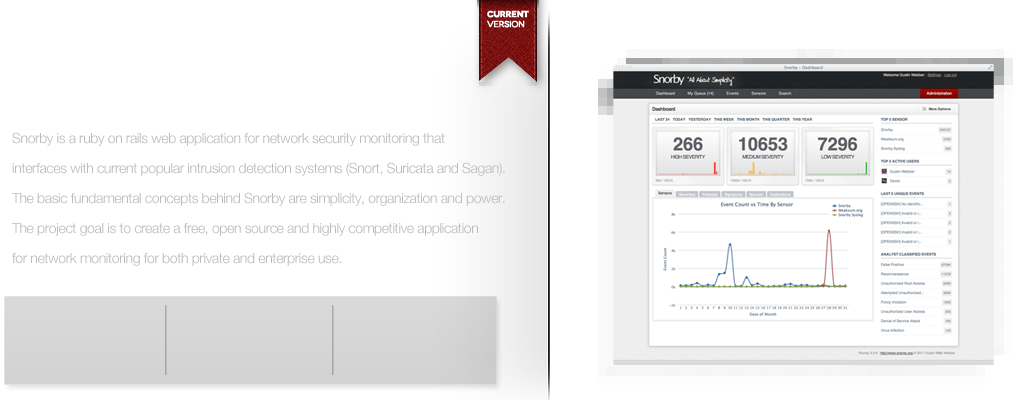
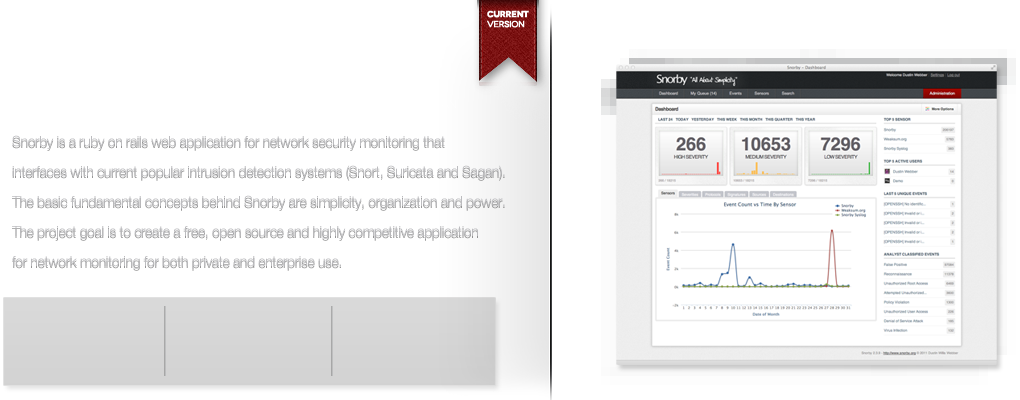
Update images and css.

diff --git a/public/assets/snorby.css b/public/assets/snorby.css
@@ -1,1 +1,1 @@
-.container_12{margin-left:auto;margin-right:auto;width:1020px}.grid_1,.grid_2,.grid_3,.grid_4,.grid_5,.grid_6,.grid_7,.grid_8,.grid_9,.grid_10,.grid_11,.grid_12{display:inline;float:left;position:relative;margin-left:10px;margin-right:10px}.alpha{margin-left:0}.omega{margin-right:0}.container_12 .grid_1{width:65px}.container_12 .grid_2{width:150px}.container_12 .grid_3{width:235px}.container_12 .grid_4{width:320px}.container_12 .grid_5{width:405px}.container_12 .grid_6{width:490px}.container_12 .grid_7{width:575px}.container_12 .grid_8{width:660px}.container_12 .grid_9{width:745px}.container_12 .grid_10{width:830px}.container_12 .grid_11{width:915px}.container_12 .grid_12{width:1000px}.container_12 .prefix_1{padding-left:85px}.container_12 .prefix_2{padding-left:170px}.container_12 .prefix_3{padding-left:255px}.container_12 .prefix_4{padding-left:340px}.container_12 .prefix_5{padding-left:425px}.container_12 .prefix_6{padding-left:510px}.container_12 .prefix_7{padding-left:595px}.container_12 .prefix_8{padding-left:680px}.container_12 .prefix_9{padding-left:765px}.container_12 .prefix_10{padding-left:850px}.container_12 .prefix_11{padding-left:935px}.container_12 .suffix_1{padding-right:85px}.container_12 .suffix_2{padding-right:170px}.container_12 .suffix_3{padding-right:255px}.container_12 .suffix_4{padding-right:340px}.container_12 .suffix_5{padding-right:425px}.container_12 .suffix_6{padding-right:510px}.container_12 .suffix_7{padding-right:595px}.container_12 .suffix_8{padding-right:680px}.container_12 .suffix_9{padding-right:765px}.container_12 .suffix_10{padding-right:850px}.container_12 .suffix_11{padding-right:935px}.container_12 .push_1{left:85px}.container_12 .push_2{left:170px}.container_12 .push_3{left:255px}.container_12 .push_4{left:340px}.container_12 .push_5{left:425px}.container_12 .push_6{left:510px}.container_12 .push_7{left:595px}.container_12 .push_8{left:680px}.container_12 .push_9{left:765px}.container_12 .push_10{left:850px}.container_12 .push_11{left:935px}.container_12 .pull_1{left:-85px}.container_12 .pull_2{left:-170px}.container_12 .pull_3{left:-255px}.container_12 .pull_4{left:-340px}.container_12 .pull_5{left:-425px}.container_12 .pull_6{left:-510px}.container_12 .pull_7{left:-595px}.container_12 .pull_8{left:-680px}.container_12 .pull_9{left:-765px}.container_12 .pull_10{left:-850px}.container_12 .pull_11{left:-935px}.clear{clear:both;display:block;overflow:hidden;visibility:hidden;width:0;height:0}.clearfix:after{clear:both;content:' ';display:block;font-size:0;line-height:0;visibility:hidden;width:0;height:0}.clearfix{display:inline-block}* html .clearfix{height:1%}.clearfix{display:block}html,body,div,span,applet,object,iframe,h1,h2,h3,h4,h5,h6,p,blockquote,pre,a,abbr,acronym,address,big,cite,code,del,dfn,em,font,img,ins,kbd,q,s,samp,small,strike,strong,sub,sup,tt,var,b,u,i,center,dl,dt,dd,ol,ul,li,fieldset,form,label,legend,table,caption,tbody,tfoot,thead,tr,th,td{margin:0;padding:0;border:0;outline:0;font-size:100%;vertical-align:baseline;background:transparent}body{line-height:1}ol,ul{list-style:none}blockquote,q{quotes:none}blockquote:before,blockquote:after,q:before,q:after{content:'';content:none}:focus{outline:0}ins{text-decoration:none}del{text-decoration:line-through}tables still need 'cellspacing="0"' in the markup table{border-collapse:collapse;border-spacing:0}html,body{font-family:'Muli',sans-serif;background:#f3f4f8;line-height:1.4em}#wrapper{min-height:300px;display:block;position:relative;overflow:hidden;border-bottom:1px solid #acacac;padding-bottom:30px}#wrapper #content{background:#f3f4f8;padding-bottom:15px}#main{border-top:6px solid rgba(0,0,0,0.1);background:#f3f4f8}#main .main-inside{border-top:1px solid #acacac}strong{letter-spacing:-1px}#header{background-color:rgba(0,0,0,0.17)}#header #header-inside{display:block;position:relative;overflow:hidden}#hero-heading{display:block;position:relative;overflow:visible;padding:10px;margin-top:-10px;margin-bottom:10px}#hero-heading h1{color:#3c4c53;text-decoration:none;margin-bottom:10px;text-align:left;font-style:normal;font-weight:normal;letter-spacing:-1px;padding:10px 10px 7px 0;font-size:2.0em}#hero-heading span{color:#454245;text-decoration:none;font-variant:normal;text-align:left;display:block;position:relative;overflow:hidden;padding-right:20px;margin-bottom:0;padding-bottom:10px;font-size:.9em;font-weight:bold}#header #header-inside div.content{height:400px;display:block;position:relative;overflow:hidden}#header #header-inside div.download{position:absolute;display:block;bottom:0;left:0;right:0;height:130px;background-color:rgba(11,11,11,0.7);border-top:1px solid #000}#header #menu{display:block;position:relative;height:63px;background:transparent url(../images/header/menu-bg.png?1315084321) repeat-x;overflow:hidden}#header #menu #menu-inside #logo{float:left;overflow:visible;display:block;position:relative;height:63px;width:400px;background:url(../images/header/logo.png?1315084323) no-repeat;text-indent:-9999em}#header #menu #menu-inside h1 span{font-size:12px;letter-spacing:0;color:#aaa;font-style:italic}#header #menu #menu-inside ul{float:right;display:block;position:relative;overflow:hidden;height:63px;line-height:63px}#header #menu #menu-inside li{float:right;color:#fff;font-weight:bold;text-decoration:none;font-variant:normal;margin-left:20px;font-size:1.0em;text-transform:lowercase}#header #menu #menu-inside li a{color:#fff;font-variant:normal;text-decoration:none;font-weight:normal;font-style:normal}#header #menu #menu-inside li a:hover{color:#aaa7b1}.page{margin-top:15px;margin-bottom:30px;display:block;position:relative;overflow:hidden}.page a{color:#aa1513}.page a:hover{color:#e22323}.page a:active{color:#000}div.block{display:block;position:relative;overflow:hidden}.note{background:url(../images/icons/note.png?1311472929) no-repeat left 4px;display:block;position:relative;overflow:visible;line-height:16px;padding-left:23px;font-size:12px;color:#415058;margin-top:15px;padding-top:5px;padding-bottom:5px;font-style:italic}.page #box{font-size:13px;color:#2e2e2e;text-align:left;line-height:1.5em;display:block;position:relative;margin-bottom:10px;margin-right:12px;margin-top:5px;padding:5px}.page #box.last{margin-right:0}.page #box .content{font-size:13px;color:#2e2e2e;text-align:left;line-height:1.5em;border-bottom:1px dotted #c1c1c1;padding-bottom:20px;display:block;position:relative;overflow:hidden}.page #box .content.lock{line-height:1.8em;height:170px}.page #box .content ul li{line-height:25px;background:url(../images/icons/list.png?1311472929) no-repeat left 4px;padding-left:20px}.page #box .content ul li a{font-size:12px}.page h1{color:#161616;display:block;position:relative;overflow:visible;margin-bottom:15px;text-shadow:#fff 0 1px 0;letter-spacing:-3px;border-bottom:1px dotted #bdbdbd;text-decoration:none;text-transform:capitalize;padding:5px 15px 5px 0;font:normal bold 3.0em 'Reenie Beanie',cursive}.page h1 span{font-variant:normal;color:#475662;text-transform:capitalize}.page h1 div.top{cursor:pointer;float:right;font-size:15px;letter-spacing:-1px;display:block;position:absolute;right:0;background:url(../images/icons/top.png?1315084319) no-repeat left center;bottom:10px;padding:10px 10px 10px 18px}.page h2{color:#282628;text-decoration:none;text-transform:uppercase;text-shadow:#fff 0 1px 0;text-align:left;font:normal normal bold 20px "Helvetica Neue",Arial,Helvetica,Geneva,sans-serif;letter-spacing:-1px;margin-bottom:7px;padding:5px 5px 5px 0;display:block;position:relative;overflow:visible}.page h2 div.look{cursor:pointer;position:absolute;display:block;background:url(../images/icons/look.png?1311472929) no-repeat;width:16px;height:16px;right:2px;bottom:7px}.page h3{font-size:16px;font-weight:normal;font-style:normal;text-decoration:none;font-variant:normal}.blank{color:#e5e5e5}.no-overflow{overflow:hidden}.right{float:right!important}.left{float:left}.round{-webkit-border-radius:5px;-moz-border-radius:5px;border-radius:5px}.round-with-tabs{-webkit-border-top-right-radius:4px;-moz-border-radius-topright:4px;-moz-border-radius-bottomright:4px;-moz-border-radius-bottomleft:4px;-webkit-border-bottom-right-radius:4px;-webkit-border-bottom-left-radius:4px}.round_top{-moz-border-radius-topright:4px;-moz-border-radius-topleft:4px;-webkit-border-top-right-radius:4px;-webkit-border-top-left-radius:4px}.round_bottom{-moz-border-radius-bottomright:4px;-moz-border-radius-bottomleft:4px;-webkit-border-bottom-right-radius:4px;-webkit-border-bottom-left-radius:4px}.shadow-bottom{-webkit-box-shadow:0 2px 10px rgba(0,0,0,0.2);-moz-box-shadow:0 1px 5px rgba(0,0,0,0.2);box-shadow:0 1px 5px rgba(0,0,0,0.2)}.shadow{-webkit-box-shadow:0 1px 5px rgba(0,0,0,0.2);-moz-box-shadow:0 1px 5px rgba(0,0,0,0.2);box-shadow:0 1px 5px rgba(0,0,0,0.2)}.shadow-in{-webkit-box-shadow:inset 0 1px 10px #b0b0b0;-moz-box-shadow:inset 0 1px 10px #b0b0b0;box-shadow:inset 0 1px 10px #b0b0b0}.shadow-light{-webkit-box-shadow:inset 0 1px 10px #fbfbfb;-moz-box-shadow:inset 0 1px 10px #fbfbfb;box-shadow:inset 0 1px 10px #fbfbfb}.no-wrap{white-space:nowrap}a.download{height:30px;padding:15px 20px;position:relative;color:#fff;text-shadow:#2f0100 1px 1px 0;white-space:nowrap;overflow:visible;background:#6b0400;filter:progid:DXImageTransform.Microsoft.gradient(GradientType=0,startColorstr='#9e0500',endColorstr='#6b0400');background:-webkit-gradient(linear,0% 0,0% 100%,from(#9e0500),to(#6b0400));background:-moz-linear-gradient(-90deg,#9e0500,#6b0400);-webkit-border-radius:5px;-moz-border-radius:5px;border-radius:5px;-webkit-box-shadow:0 1px 2px rgba(0,0,0,0.3);-moz-box-shadow:0 1px 2px rgba(0,0,0,0.3);box-shadow:0 1px 2px rgba(0,0,0,0.3);cursor:pointer;-webkit-font-smoothing:subpixel-antialiased!important;border:1px solid #af160b;margin-right:5px;text-decoration:none;left:50px;letter-spacing:-2px;top:42px;font:normal bold 2.5em helvetica,arial,freesans,clean,sans-serif}a.download:hover{background:#840500;filter:progid:DXImageTransform.Microsoft.gradient(GradientType=0,startColorstr='#b80600',endColorstr='#840500');background:-webkit-gradient(linear,0% 0,0% 100%,from(#b80600),to(#840500));background:-moz-linear-gradient(-90deg,#b80600,#840500)}a.download:active{color:#fef8fd;text-shadow:rgba(0,0,0,0.86) -1px -1px 0;background:#9e0500;filter:progid:DXImageTransform.Microsoft.gradient(GradientType=0,startColorstr='#6b0400',endColorstr='#9e0500');background:-webkit-gradient(linear,0% 0,0% 100%,from(#6b0400),to(#9e0500));background:-moz-linear-gradient(-90deg,#6b0400,#9e0500)}button.default,a.button.default{height:30px;position:relative;top:1px;font-family:helvetica,arial,freesans,clean,sans-serif;font-weight:bold;font-size:12px;color:#333;text-shadow:1px 1px 0 #fff;white-space:nowrap;overflow:visible;background:#ddd;filter:progid:DXImageTransform.Microsoft.gradient(GradientType=0,startColorstr='#ffffff',endColorstr='#e1e1e1');background:-webkit-gradient(linear,0% 0,0% 100%,from(#fff),to(#e1e1e1));background:-moz-linear-gradient(-90deg,#fff,#e1e1e1);border-bottom:1px solid #ebebeb;-webkit-border-radius:3px;-moz-border-radius:3px;border-radius:3px;-webkit-box-shadow:0 1px 2px rgba(0,0,0,0.3);-moz-box-shadow:0 1px 2px rgba(0,0,0,0.3);box-shadow:0 1px 2px rgba(0,0,0,0.3);cursor:pointer;-webkit-font-smoothing:subpixel-antialiased!important;border:1px solid #cbcbcb;margin-right:5px;padding:0 30px 0 7px}pre.code{background-color:#000;padding:10px;font-weight:normal;text-decoration:none;font-variant:normal;color:#fff;margin-top:10px;font-size:12px;font-style:normal;border:5px solid #bdbdbd}.info-box{position:relative}.popup{position:absolute;display:none;z-index:50;color:#fff;font-weight:normal;font-style:normal;text-decoration:none;font-variant:normal;font-size:11px;padding:10px;line-height:20px;width:265px;background:transparent url(../images/popup-bg.png?1315084339) no-repeat;height:182px}.popup h4{text-decoration:none;text-shadow:#000 0 1px 0;margin-bottom:5px;font-size:16px;font-weight:bold;letter-spacing:-1px}.popup a{color:#ae1e1e;font-weight:normal;font-style:normal;text-decoration:none;font-variant:normal}#twitter{font-size:.8em;display:block;position:relative;overflow:hidden}#twitter ul#twitter_update_list{display:block;position:relative;overflow:hidden}#twitter li{border-bottom:1px dotted #ddd;padding-bottom:10px;margin-bottom:10px;line-height:20px;font-style:normal;color:#545454;font-weight:normal;text-decoration:none;font-variant:normal;padding-left:5px}#info-box{height:400px;background:url(../images/info-box-bg.png?1315084324) repeat-x;display:block;position:relative;overflow:visible;border-bottom:1px solid #000;padding-top:0;padding-bottom:19px}#info-box .inside{width:1020px;margin:auto;height:400px;display:block;position:relative;visibility:visible}#info-box .inside #images{width:1020px;height:400px;background:url(../images/welcome/welcome-bg.png?1315084370) no-repeat;margin:auto}#info-box .inside #current-version{cursor:pointer;position:absolute;display:block;overflow:hidden;height:80px;width:80px;left:468px;top:0;font-weight:bold;text-decoration:none;font-variant:normal;color:#fffeff;text-shadow:#000 0 1px 0;text-align:center;line-height:87px}#info-box .inside #downloads{width:500px;height:88px;position:absolute;overflow:visible;display:block;line-height:96px;top:293px;left:7px}#info-box .inside #downloads button{cursor:pointer;text-indent:-9999em;background:url(../images/buttons.png?1315084445) no-repeat;border-style:none;width:140px;height:45px;display:inline-block;position:relative;overflow:visible}#info-box .inside #downloads button#snorby{background-position:-47px -38px;margin-left:9px;margin-right:20px}#info-box .inside #downloads button#snorby:hover{background-position:-36px -141px;height:65px;left:-11px;width:160px;top:-2px;margin-right:0}#info-box .inside #downloads button#insta-snorby{background-position:-212px -38px;margin-right:20px;margin-left:-1px}#info-box .inside #downloads button#insta-snorby:hover{background-position:-201px -141px;height:65px;left:-11px;width:160px;top:-2px;margin-right:0}#info-box .inside #downloads button#submit-bugs{background-position:-377px -38px}#info-box .inside #downloads button#submit-bugs:hover{background-position:-366px -141px;height:65px;left:-11px;width:160px;top:-2px;margin-right:0}div.info-popup{position:relative;display:inline-block;overflow:visible}div#video{cursor:pointer;position:absolute;display:block;overflow:visible;width:450px;height:350px;margin:auto;right:-9px;z-index:99999;background:url(../images/play-button.png?1315084452) no-repeat;top:49px}#close-video{cursor:pointer;display:block;position:absolute;overflow:hidden;color:#e8e8e8;letter-spacing:-2px;top:17px;font:normal bold 1.5em 'Reenie Beanie',cursive;text-shadow:#000 0 1px 0;right:10px}#footer{font-size:12px;color:#bababa;text-align:left;font-style:normal;font-weight:normal;text-decoration:none;font-variant:normal;border-bottom:1px solid #000;border-top:5px solid #c7c7c7;background:#38393d url(../images/info-box-bg.png?1315084324) repeat-x 0 bottom}#footer .inside{width:1020px;margin:auto;padding-bottom:40px;position:relative;display:block;overflow:hidden;padding-top:7px}#footer .inside ul.column{float:left;display:block;position:relative;overflow:hidden;width:200px;padding:0;margin:20px 55px 0 0}#footer .inside ul.column li.title{color:#fff;text-decoration:none;font:1.3em 'Muli',sans-serif;padding:0;margin:0 0 10px;letter-spacing:-1px;text-shadow:#000 0 1px 0;border-style:none;border-bottom:2px solid #7c7c7c}#footer .inside ul.column li{display:block;position:relative;overflow:hidden;padding:5px 0;border-bottom:1px dotted #444;font-size:.9em}#footer .inside ul.column li a{font-weight:normal;font-style:normal;text-decoration:none;font-variant:normal;color:#c7c7c7;text-transform:lowercase;display:block;position:relative;overflow:hidden}#footer .inside ul.column li a:hover{color:#d51e18}#copyright{font-size:11px;color:#989898;width:1020px;position:relative;display:block;overflow:hidden;margin:auto auto 30px;text-align:left}#copyright strong{font-size:11px;font-weight:bold;text-decoration:none;font-variant:normal;letter-spacing:-1px}#footer a,#copyright a{color:#7f7f7f}iframe{border:1px solid #393939;-webkit-box-shadow:0 0 10px rgba(0,0,0,0.8);-moz-box-shadow:0 0 10px rgba(0,0,0,0.8);box-shadow:0 0 10px rgba(0,0,0,0.8)}
+.container_12{margin-left:auto;margin-right:auto;width:1020px}.grid_1,.grid_2,.grid_3,.grid_4,.grid_5,.grid_6,.grid_7,.grid_8,.grid_9,.grid_10,.grid_11,.grid_12{display:inline;float:left;position:relative;margin-left:10px;margin-right:10px}.alpha{margin-left:0}.omega{margin-right:0}.container_12 .grid_1{width:65px}.container_12 .grid_2{width:150px}.container_12 .grid_3{width:235px}.container_12 .grid_4{width:320px}.container_12 .grid_5{width:405px}.container_12 .grid_6{width:490px}.container_12 .grid_7{width:575px}.container_12 .grid_8{width:660px}.container_12 .grid_9{width:745px}.container_12 .grid_10{width:830px}.container_12 .grid_11{width:915px}.container_12 .grid_12{width:1000px}.container_12 .prefix_1{padding-left:85px}.container_12 .prefix_2{padding-left:170px}.container_12 .prefix_3{padding-left:255px}.container_12 .prefix_4{padding-left:340px}.container_12 .prefix_5{padding-left:425px}.container_12 .prefix_6{padding-left:510px}.container_12 .prefix_7{padding-left:595px}.container_12 .prefix_8{padding-left:680px}.container_12 .prefix_9{padding-left:765px}.container_12 .prefix_10{padding-left:850px}.container_12 .prefix_11{padding-left:935px}.container_12 .suffix_1{padding-right:85px}.container_12 .suffix_2{padding-right:170px}.container_12 .suffix_3{padding-right:255px}.container_12 .suffix_4{padding-right:340px}.container_12 .suffix_5{padding-right:425px}.container_12 .suffix_6{padding-right:510px}.container_12 .suffix_7{padding-right:595px}.container_12 .suffix_8{padding-right:680px}.container_12 .suffix_9{padding-right:765px}.container_12 .suffix_10{padding-right:850px}.container_12 .suffix_11{padding-right:935px}.container_12 .push_1{left:85px}.container_12 .push_2{left:170px}.container_12 .push_3{left:255px}.container_12 .push_4{left:340px}.container_12 .push_5{left:425px}.container_12 .push_6{left:510px}.container_12 .push_7{left:595px}.container_12 .push_8{left:680px}.container_12 .push_9{left:765px}.container_12 .push_10{left:850px}.container_12 .push_11{left:935px}.container_12 .pull_1{left:-85px}.container_12 .pull_2{left:-170px}.container_12 .pull_3{left:-255px}.container_12 .pull_4{left:-340px}.container_12 .pull_5{left:-425px}.container_12 .pull_6{left:-510px}.container_12 .pull_7{left:-595px}.container_12 .pull_8{left:-680px}.container_12 .pull_9{left:-765px}.container_12 .pull_10{left:-850px}.container_12 .pull_11{left:-935px}.clear{clear:both;display:block;overflow:hidden;visibility:hidden;width:0;height:0}.clearfix:after{clear:both;content:' ';display:block;font-size:0;line-height:0;visibility:hidden;width:0;height:0}.clearfix{display:inline-block}* html .clearfix{height:1%}.clearfix{display:block}html,body,div,span,applet,object,iframe,h1,h2,h3,h4,h5,h6,p,blockquote,pre,a,abbr,acronym,address,big,cite,code,del,dfn,em,font,img,ins,kbd,q,s,samp,small,strike,strong,sub,sup,tt,var,b,u,i,center,dl,dt,dd,ol,ul,li,fieldset,form,label,legend,table,caption,tbody,tfoot,thead,tr,th,td{margin:0;padding:0;border:0;outline:0;font-size:100%;vertical-align:baseline;background:transparent}body{line-height:1}ol,ul{list-style:none}blockquote,q{quotes:none}blockquote:before,blockquote:after,q:before,q:after{content:'';content:none}:focus{outline:0}ins{text-decoration:none}del{text-decoration:line-through}tables still need 'cellspacing="0"' in the markup table{border-collapse:collapse;border-spacing:0}html,body{font-family:'Muli',sans-serif;background:#f3f4f8;line-height:1.4em}#wrapper{min-height:300px;display:block;position:relative;overflow:hidden;border-bottom:1px solid #acacac;padding-bottom:30px}#wrapper #content{background:#f3f4f8;padding-bottom:15px}#main{border-top:6px solid rgba(0,0,0,0.1);background:#f3f4f8}#main .main-inside{border-top:1px solid #acacac}strong{letter-spacing:-1px}#header{background-color:rgba(0,0,0,0.17)}#header #header-inside{display:block;position:relative;overflow:hidden}#hero-heading{display:block;position:relative;overflow:visible;padding:10px;margin-top:-10px;margin-bottom:10px}#hero-heading h1{color:#3c4c53;text-decoration:none;margin-bottom:10px;text-align:left;font-style:normal;font-weight:normal;letter-spacing:-1px;padding:10px 10px 7px 0;font-size:2.0em}#hero-heading span{color:#454245;text-decoration:none;font-variant:normal;text-align:left;display:block;position:relative;overflow:hidden;padding-right:20px;margin-bottom:0;padding-bottom:10px;font-size:.9em;font-weight:bold}#header #header-inside div.content{height:400px;display:block;position:relative;overflow:hidden}#header #header-inside div.download{position:absolute;display:block;bottom:0;left:0;right:0;height:130px;background-color:rgba(11,11,11,0.7);border-top:1px solid #000}#header #menu{display:block;position:relative;height:63px;background:transparent url(../images/header/menu-bg.png?1315084321) repeat-x;overflow:hidden}#header #menu #menu-inside #logo{float:left;overflow:visible;display:block;position:relative;height:63px;width:400px;background:url(../images/header/logo.png?1315084323) no-repeat;text-indent:-9999em}#header #menu #menu-inside h1 span{font-size:12px;letter-spacing:0;color:#aaa;font-style:italic}#header #menu #menu-inside ul{float:right;display:block;position:relative;overflow:hidden;height:63px;line-height:63px}#header #menu #menu-inside li{float:right;color:#fff;font-weight:bold;text-decoration:none;font-variant:normal;margin-left:20px;font-size:1.0em;text-transform:lowercase}#header #menu #menu-inside li a{color:#fff;font-variant:normal;text-decoration:none;font-weight:normal;font-style:normal}#header #menu #menu-inside li a:hover{color:#aaa7b1}.page{margin-top:15px;margin-bottom:30px;display:block;position:relative;overflow:hidden}.page a{color:#aa1513}.page a:hover{color:#e22323}.page a:active{color:#000}div.block{display:block;position:relative;overflow:hidden}.note{background:url(../images/icons/note.png?1311472929) no-repeat left 4px;display:block;position:relative;overflow:visible;line-height:16px;padding-left:23px;font-size:12px;color:#415058;margin-top:15px;padding-top:5px;padding-bottom:5px;font-style:italic}.page #box{font-size:13px;color:#2e2e2e;text-align:left;line-height:1.5em;display:block;position:relative;margin-bottom:10px;margin-right:12px;margin-top:5px;padding:5px}.page #box.last{margin-right:0}.page #box .content{font-size:13px;color:#2e2e2e;text-align:left;line-height:1.5em;border-bottom:1px dotted #c1c1c1;padding-bottom:20px;display:block;position:relative;overflow:hidden}.page #box .content.lock{line-height:1.8em;height:170px}.page #box .content ul li{line-height:25px;background:url(../images/icons/list.png?1311472929) no-repeat left 4px;padding-left:20px}.page #box .content ul li a{font-size:12px}.page h1{color:#161616;display:block;position:relative;overflow:visible;margin-bottom:15px;text-shadow:#fff 0 1px 0;letter-spacing:-3px;border-bottom:1px dotted #bdbdbd;text-decoration:none;text-transform:capitalize;padding:5px 15px 5px 0;font:normal bold 3.0em 'Reenie Beanie',cursive}.page h1 span{font-variant:normal;color:#475662;text-transform:capitalize}.page h1 div.top{cursor:pointer;float:right;font-size:15px;letter-spacing:-1px;display:block;position:absolute;right:0;background:url(../images/icons/top.png?1315084319) no-repeat left center;bottom:10px;padding:10px 10px 10px 18px}.page h2{color:#282628;text-decoration:none;text-transform:uppercase;text-shadow:#fff 0 1px 0;text-align:left;font:normal normal bold 20px "Helvetica Neue",Arial,Helvetica,Geneva,sans-serif;letter-spacing:-1px;margin-bottom:7px;padding:5px 5px 5px 0;display:block;position:relative;overflow:visible}.page h2 div.look{cursor:pointer;position:absolute;display:block;background:url(../images/icons/look.png?1311472929) no-repeat;width:16px;height:16px;right:2px;bottom:7px}.page h3{font-size:16px;font-weight:normal;font-style:normal;text-decoration:none;font-variant:normal}.blank{color:#e5e5e5}.no-overflow{overflow:hidden}.right{float:right!important}.left{float:left}.round{-webkit-border-radius:5px;-moz-border-radius:5px;border-radius:5px}.round-with-tabs{-webkit-border-top-right-radius:4px;-moz-border-radius-topright:4px;-moz-border-radius-bottomright:4px;-moz-border-radius-bottomleft:4px;-webkit-border-bottom-right-radius:4px;-webkit-border-bottom-left-radius:4px}.round_top{-moz-border-radius-topright:4px;-moz-border-radius-topleft:4px;-webkit-border-top-right-radius:4px;-webkit-border-top-left-radius:4px}.round_bottom{-moz-border-radius-bottomright:4px;-moz-border-radius-bottomleft:4px;-webkit-border-bottom-right-radius:4px;-webkit-border-bottom-left-radius:4px}.shadow-bottom{-webkit-box-shadow:0 2px 10px rgba(0,0,0,0.2);-moz-box-shadow:0 1px 5px rgba(0,0,0,0.2);box-shadow:0 1px 5px rgba(0,0,0,0.2)}.shadow{-webkit-box-shadow:0 1px 5px rgba(0,0,0,0.2);-moz-box-shadow:0 1px 5px rgba(0,0,0,0.2);box-shadow:0 1px 5px rgba(0,0,0,0.2)}.shadow-in{-webkit-box-shadow:inset 0 1px 10px #b0b0b0;-moz-box-shadow:inset 0 1px 10px #b0b0b0;box-shadow:inset 0 1px 10px #b0b0b0}.shadow-light{-webkit-box-shadow:inset 0 1px 10px #fbfbfb;-moz-box-shadow:inset 0 1px 10px #fbfbfb;box-shadow:inset 0 1px 10px #fbfbfb}.no-wrap{white-space:nowrap}a.download{height:30px;padding:15px 20px;position:relative;color:#fff;text-shadow:#2f0100 1px 1px 0;white-space:nowrap;overflow:visible;background:#6b0400;filter:progid:DXImageTransform.Microsoft.gradient(GradientType=0,startColorstr='#9e0500',endColorstr='#6b0400');background:-webkit-gradient(linear,0% 0,0% 100%,from(#9e0500),to(#6b0400));background:-moz-linear-gradient(-90deg,#9e0500,#6b0400);-webkit-border-radius:5px;-moz-border-radius:5px;border-radius:5px;-webkit-box-shadow:0 1px 2px rgba(0,0,0,0.3);-moz-box-shadow:0 1px 2px rgba(0,0,0,0.3);box-shadow:0 1px 2px rgba(0,0,0,0.3);cursor:pointer;-webkit-font-smoothing:subpixel-antialiased!important;border:1px solid #af160b;margin-right:5px;text-decoration:none;left:50px;letter-spacing:-2px;top:42px;font:normal bold 2.5em helvetica,arial,freesans,clean,sans-serif}a.download:hover{background:#840500;filter:progid:DXImageTransform.Microsoft.gradient(GradientType=0,startColorstr='#b80600',endColorstr='#840500');background:-webkit-gradient(linear,0% 0,0% 100%,from(#b80600),to(#840500));background:-moz-linear-gradient(-90deg,#b80600,#840500)}a.download:active{color:#fef8fd;text-shadow:rgba(0,0,0,0.86) -1px -1px 0;background:#9e0500;filter:progid:DXImageTransform.Microsoft.gradient(GradientType=0,startColorstr='#6b0400',endColorstr='#9e0500');background:-webkit-gradient(linear,0% 0,0% 100%,from(#6b0400),to(#9e0500));background:-moz-linear-gradient(-90deg,#6b0400,#9e0500)}button.default,a.button.default{height:30px;position:relative;top:1px;font-family:helvetica,arial,freesans,clean,sans-serif;font-weight:bold;font-size:12px;color:#333;text-shadow:1px 1px 0 #fff;white-space:nowrap;overflow:visible;background:#ddd;filter:progid:DXImageTransform.Microsoft.gradient(GradientType=0,startColorstr='#ffffff',endColorstr='#e1e1e1');background:-webkit-gradient(linear,0% 0,0% 100%,from(#fff),to(#e1e1e1));background:-moz-linear-gradient(-90deg,#fff,#e1e1e1);border-bottom:1px solid #ebebeb;-webkit-border-radius:3px;-moz-border-radius:3px;border-radius:3px;-webkit-box-shadow:0 1px 2px rgba(0,0,0,0.3);-moz-box-shadow:0 1px 2px rgba(0,0,0,0.3);box-shadow:0 1px 2px rgba(0,0,0,0.3);cursor:pointer;-webkit-font-smoothing:subpixel-antialiased!important;border:1px solid #cbcbcb;margin-right:5px;padding:0 30px 0 7px}pre.code{background-color:#000;padding:10px;font-weight:normal;text-decoration:none;font-variant:normal;color:#fff;margin-top:10px;font-size:12px;font-style:normal;border:5px solid #bdbdbd}.info-box{position:relative}.popup{position:absolute;display:none;z-index:50;color:#fff;font-weight:normal;font-style:normal;text-decoration:none;font-variant:normal;font-size:11px;padding:10px;line-height:20px;width:265px;background:transparent url(../images/popup-bg.png?1315084339) no-repeat;height:182px}.popup h4{text-decoration:none;text-shadow:#000 0 1px 0;margin-bottom:5px;font-size:16px;font-weight:bold;letter-spacing:-1px}.popup a{color:#ae1e1e;font-weight:normal;font-style:normal;text-decoration:none;font-variant:normal}#twitter{font-size:.8em;display:block;position:relative;overflow:hidden}#twitter ul#twitter_update_list{display:block;position:relative;overflow:hidden}#twitter li{border-bottom:1px dotted #ddd;padding-bottom:10px;margin-bottom:10px;line-height:20px;font-style:normal;color:#545454;font-weight:normal;text-decoration:none;font-variant:normal;padding-left:5px}#info-box{height:400px;background:url(../images/info-box-bg.png?1315084324) repeat-x;display:block;position:relative;overflow:visible;border-bottom:1px solid #000;padding-top:0;padding-bottom:19px}#info-box .inside{width:1020px;margin:auto;height:400px;display:block;position:relative;visibility:visible}#info-box .inside #images{width:1020px;height:400px;background:url(../images/welcome/welcome-bg.png?1315090566) no-repeat;margin:auto}#info-box .inside #current-version{cursor:pointer;position:absolute;display:block;overflow:hidden;height:80px;width:80px;left:468px;top:0;font-weight:bold;text-decoration:none;font-variant:normal;color:#fffeff;text-shadow:#000 0 1px 0;text-align:center;line-height:87px}#info-box .inside #downloads{width:500px;height:88px;position:absolute;overflow:visible;display:block;line-height:96px;top:295px;left:7px}#info-box .inside #downloads button{cursor:pointer;text-indent:-9999em;background:url(../images/buttons.png?1315084445) no-repeat;border-style:none;width:140px;height:45px;display:inline-block;position:relative;overflow:visible}#info-box .inside #downloads button#snorby{background-position:-47px -38px;margin-left:9px;margin-right:20px}#info-box .inside #downloads button#snorby:hover{background-position:-36px -141px;height:65px;left:-11px;width:160px;top:-2px;margin-right:0}#info-box .inside #downloads button#insta-snorby{background-position:-212px -38px;margin-right:20px;margin-left:-1px}#info-box .inside #downloads button#insta-snorby:hover{background-position:-201px -141px;height:65px;left:-11px;width:160px;top:-2px;margin-right:0}#info-box .inside #downloads button#submit-bugs{background-position:-377px -38px}#info-box .inside #downloads button#submit-bugs:hover{background-position:-366px -141px;height:65px;left:-11px;width:160px;top:-2px;margin-right:0}div.info-popup{position:relative;display:inline-block;overflow:visible}div#video{cursor:pointer;position:absolute;display:block;overflow:visible;width:450px;height:350px;margin:auto;right:-15px;z-index:99999;background:url(../images/play-button.png?1315090157) no-repeat;top:49px}#close-video{cursor:pointer;display:block;position:absolute;overflow:hidden;color:#e8e8e8;letter-spacing:-2px;top:18px;font:normal bold 1.5em 'Reenie Beanie',cursive;text-shadow:#000 0 1px 0;right:0}#footer{font-size:12px;color:#bababa;text-align:left;font-style:normal;font-weight:normal;text-decoration:none;font-variant:normal;border-bottom:1px solid #000;border-top:5px solid #c7c7c7;background:#38393d url(../images/info-box-bg.png?1315084324) repeat-x 0 bottom}#footer .inside{width:1020px;margin:auto;padding-bottom:40px;position:relative;display:block;overflow:hidden;padding-top:7px}#footer .inside ul.column{float:left;display:block;position:relative;overflow:hidden;width:200px;padding:0;margin:20px 55px 0 0}#footer .inside ul.column li.title{color:#fff;text-decoration:none;font:1.3em 'Muli',sans-serif;padding:0;margin:0 0 10px;letter-spacing:-1px;text-shadow:#000 0 1px 0;border-style:none;border-bottom:2px solid #7c7c7c}#footer .inside ul.column li{display:block;position:relative;overflow:hidden;padding:5px 0;border-bottom:1px dotted #444;font-size:.9em}#footer .inside ul.column li a{font-weight:normal;font-style:normal;text-decoration:none;font-variant:normal;color:#c7c7c7;text-transform:lowercase;display:block;position:relative;overflow:hidden}#footer .inside ul.column li a:hover{color:#d51e18}#copyright{font-size:11px;color:#989898;width:1020px;position:relative;display:block;overflow:hidden;margin:auto auto 30px;text-align:left}#copyright strong{font-size:11px;font-weight:bold;text-decoration:none;font-variant:normal;letter-spacing:-1px}#footer a,#copyright a{color:#7f7f7f}iframe{border:1px solid #393939;-webkit-box-shadow:0 0 10px rgba(0,0,0,0.8);-moz-box-shadow:0 0 10px rgba(0,0,0,0.8);box-shadow:0 0 10px rgba(0,0,0,0.8)}

diff --git a/public/stylesheets/snorbyorg.css b/public/stylesheets/snorbyorg.css
@@ -678,7 +678,7 @@ pre.code{
 	overflow: visible;
 	display: block;
 	line-height: 96px;
-	top: 293px;
+	top: 295px;
 	left: 7px;
 }
 
@@ -751,7 +751,7 @@ div#video{
 	width: 450px;
 	height: 350px;
 	margin: auto;
-	right: -9px;
+	right: -15px;
 	z-index: 99999;
 	background: url(../images/play-button.png) no-repeat;
 	top: 49px;
@@ -764,10 +764,10 @@ div#video{
 	overflow: hidden;
 	color: #e8e8e8;
 	letter-spacing: -2px;
-	top: 17px;
+	top: 18px;
 	font: normal bold 1.5em 'Reenie Beanie', cursive;
 	text-shadow: #000 0 1px 0;
-	right: 10px;
+	right: 0;
 }
 
 /* @end */
